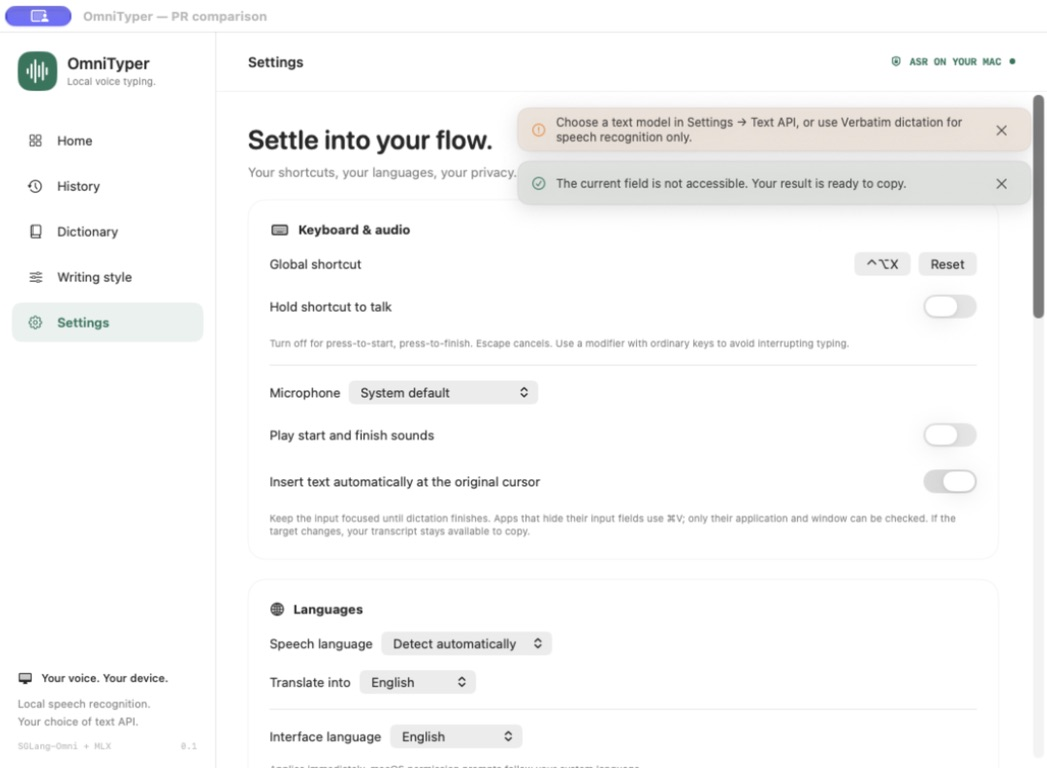
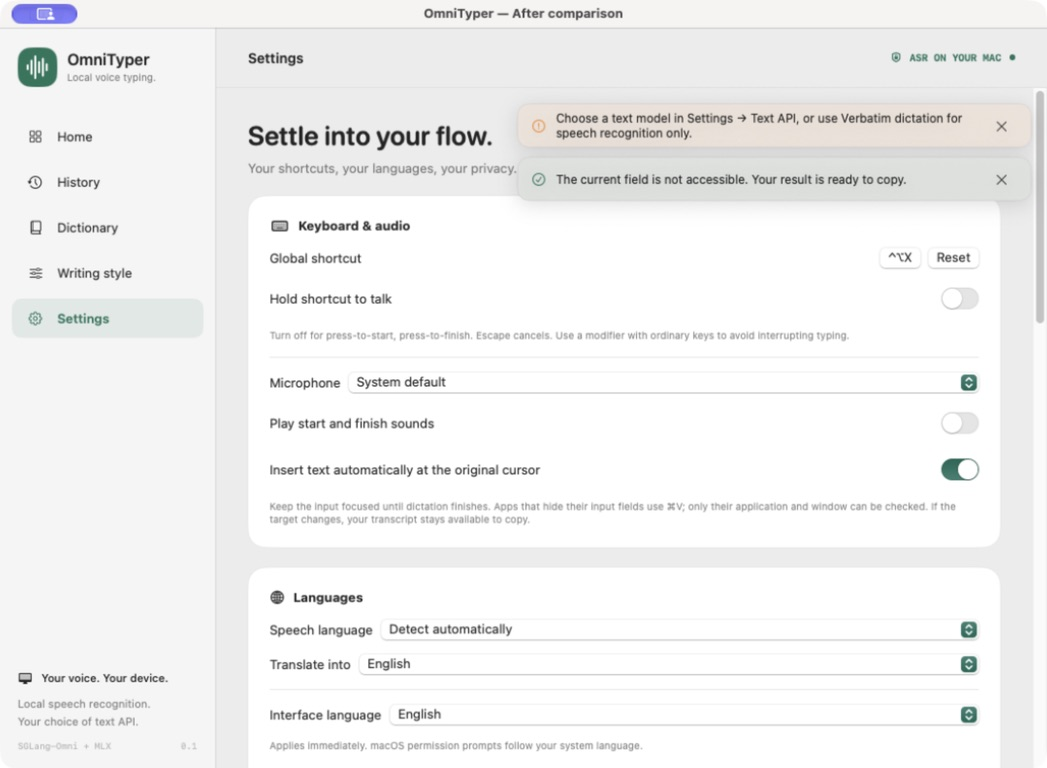
Refresh comparisons with matching native appearance and clean captures

diff --git a/README.md b/README.md
@@ -1,12 +1,10 @@
 # OmniTyper conservative usability comparison
 
-Baseline: `524a3843`. Reviewed change: `fa5305ca`.
+Baseline: `524a3843`. Reviewed change: `da730319`.
 
-Native window screenshots of production views using isolated sample data. The comparison window title and scenario controls belong only to the fixture. No microphone capture, external text API, or personal settings were used. Screenshots are unedited; the purple title-bar indicator is macOS screen-capture UI. Interaction behavior is covered by the tests and native checks described in the PR.
+Unedited native window captures with matching system appearance and Swift package builds (linked SDK 14.0). Production views use isolated sample data. Keyboard fixture commands set notices and scroll to the model card without an automation pointer. No microphone or external text API is used. Purple title-bar indicators belong to macOS screen capture.
 
-## Console and shortcuts
-
-Consistent native title bar, full-row switches, and Control–Option–X displayed as X instead of Key 7.
+## Console controls and shortcut display
 
 | Before | After |
 | --- | --- |
@@ -14,23 +12,17 @@ Consistent native title bar, full-row switches, and Control–Option–X display
 
 ## Notifications at the top of Settings
 
-Notices float independently instead of pushing the settings cards down.
-
 | Before | After |
 | --- | --- |
 | ![Before](notifications-before.jpg) | ![After](notifications-after.jpg) |
 
 ## Notifications after scrolling
 
-The same messages remain visible while viewing lower settings.
-
 | Before | After |
 | --- | --- |
 | ![Before](scrolled-before.jpg) | ![After](scrolled-after.jpg) |
 
-## Local speech model
-
-An opt-in retention setting preloads at launch and keeps the model ready between recordings.
+## Speech-model retention
 
 | Before | After |
 | --- | --- |
@@ -38,9 +30,4 @@ An opt-in retention setting preloads at launch and keeps the model ready between
 
 ## Recording popup
 
-The existing popup retains its layout, with a draggable header and 32-point Stop/Cancel targets.
-
-| Before | After |
-| --- | --- |
-| ![Before](popup-before.jpg) | ![After](popup-after.jpg) |
-
+The existing header can be dragged without taking input focus. Stop and Cancel retain compact spacing with larger rectangular targets. These interaction changes are described in text, without a static popup comparison.
